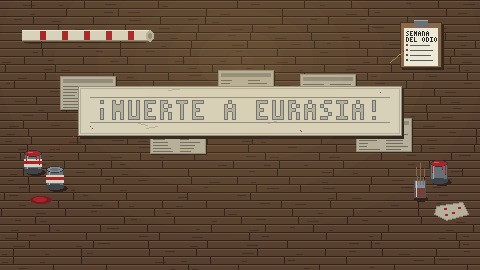
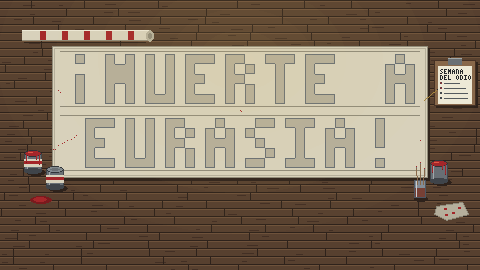
Pub sin bloqueos, pancarta para el dedo y guía del compás
- Un diálogo vacío (volver a entrar al pub) avisaba de su fin antes que de su
  inicio y el escenario se quedaba ocupado: el fin se avisa después.
- Toques más robustos: el joystick colgado se suelta con el siguiente toque,
  el gesto que cierra un diálogo solo se ignora un momento y hay tres dedos.
- Pancarta en dos líneas con letras grandes, brocha mayor y un margen de
  8 px que no cuenta como derrame.
- Compás guiado (J5): la lámina y los ministerios pendientes parpadean, el
  círculo se centra en el ministerio cercano, se pone verde a 2 km y los
  fallos dicen por qué.

diff --git a/src/scenes/minijuegos/ImpactosScene.ts b/src/scenes/minijuegos/ImpactosScene.ts
@@ -28,6 +28,8 @@ const PANEL = { x: 646, w: 290 };
 /** Los cuatro ministerios (rombos blancos de la lámina), en casillas: los mismos que art/ui/londres.py. */
 const MINISTERIOS = [[4.5, 5.6], [3.5, 4.4], [5.4, 4.0], [5.9, 5.3]];
 const RADIO_GUIA = { km: 2, tolerancia: 0.5, centro: 14 };
+/** En la secuencia guiada, empezar el círculo a menos de esto de un ministerio lo centra en él (con el dedo no se ve el rombo). */
+const IMAN = 40;
 
 /** "J-8" → columna 9, fila 7 (desde 0). */
 export function celda(c: string) {
@@ -52,14 +54,15 @@ export class ImpactosScene extends Minijuego {
   private cerrar!: Phaser.GameObjects.Container;
   private guiado = false;
   private paso: 'chinchetas' | 'lamina' | 'compas' | 'brooke' = 'chinchetas';
-  private ministerios: { x: number; y: number; hecho: boolean }[] = [];
+  private ministerios: { x: number; y: number; hecho: boolean; anillo?: Phaser.GameObjects.Arc }[] = [];
+  private botonLamina: Phaser.GameObjects.Rectangle | null = null;
 
   constructor() { super('Impactos'); }
 
   create() {
     this.reg = registroDe(this.params.registro ?? '')!;
     this.actual = 0; this.fallos = 0; this.laminaVista = false; this.compasUsado = false;
-    this.modo = 'chincheta'; this.circulos = []; this.trazo = null; this.lamina = null; this.botonCompas = null;
+    this.modo = 'chincheta'; this.circulos = []; this.trazo = null; this.lamina = null; this.botonCompas = null; this.botonLamina = null;
     this.guiado = this.params.guiado === 'si';
     this.paso = 'chinchetas';
     this.ministerios = MINISTERIOS.map(([c, f]) => ({ x: MAPA.x + c * ANCHO, y: MAPA.y + f * ALTO, hecho: false }));
@@ -111,7 +114,7 @@ export class ImpactosScene extends Minijuego {
     let bx = PANEL.x;
     if (inventario.includes('zonificacion')) {
       this.lamina = this.add.image(MAPA.x, MAPA.y, 'londres-zonas').setOrigin(0).setScale(MAPA.escala).setVisible(false).setDepth(2);
-      this.boton(bx + 70, height - 34, 'LÁMINA', () => this.alternarLamina());
+      this.botonLamina = this.boton(bx + 70, height - 34, 'LÁMINA', () => this.alternarLamina());
       bx += 148;
     }
     if (inventario.includes('compas')) {
@@ -209,10 +212,18 @@ export class ImpactosScene extends Minijuego {
     if (this.paso === 'chinchetas') {
       this.paso = 'lamina';
       if (this.lamina?.visible) { this.paso = 'compas'; return this.guia(); }
-      this.aviso.setText('¿Por qué nunca en el centro? Superpón la lámina de zonificación.');
+      this.aviso.setText('¿Por qué nunca en el centro? Toca LÁMINA para superponer la lámina de zonificación.');
+      if (this.botonLamina) this.tweens.add({ targets: this.botonLamina, alpha: 0.45, duration: 420, yoyo: true, repeat: -1 });
     } else if (this.paso === 'compas') {
+      if (this.botonLamina) { this.tweens.killTweensOf(this.botonLamina); this.botonLamina.setAlpha(1); }
       if (this.modo !== 'compas') this.alternarCompas();
-      this.aviso.setText('Traza un círculo de 2 km desde cada ministerio (los rombos blancos).');
+      this.aviso.setText('Arrastra desde cada rombo que parpadea hasta que el círculo marque 2 km (una casilla).').setWordWrapWidth(560);
+      // los ministerios que faltan, señalados: con el dedo encima, el rombo no se ve
+      for (const m of this.ministerios) {
+        if (m.hecho || m.anillo) continue;
+        m.anillo = this.add.circle(m.x, m.y, 9).setStrokeStyle(3, COLOR.ocre4).setDepth(5);
+        this.tweens.add({ targets: m.anillo, scale: 1.8, alpha: 0.2, duration: 700, yoyo: true, repeat: -1 });
+      }
     } else if (this.paso === 'brooke') {
       if (this.modo === 'compas') this.alternarCompas();
       this.aviso.setText('BROOKE, al pasar, muy bajo: «Quite eso del mapa antes de las seis. Voss hace la ronda a las seis.»')
@@ -221,17 +232,28 @@ export class ImpactosScene extends Minijuego {
     }
   }
 
-  /** ¿El círculo sale de un ministerio con un radio de unos 2 km? */
+  /** El ministerio pendiente en el que empieza un círculo (ya centrado por el imán). */
+  private ministerioEn(x: number, y: number) {
+    return this.ministerios.find((p) => !p.hecho && Phaser.Math.Distance.Between(p.x, p.y, x, y) <= RADIO_GUIA.centro);
+  }
+
+  private radioBueno(r: number) {
+    return Math.abs((r / ANCHO) * KM_POR_CELDA - RADIO_GUIA.km) <= RADIO_GUIA.tolerancia;
+  }
+
+  /** ¿El círculo sale de un ministerio con un radio de unos 2 km? Si no, se dice por qué. */
   private comprobarMinisterio(x: number, y: number, r: number) {
     if (this.paso !== 'compas') return;
     const km = (r / ANCHO) * KM_POR_CELDA;
-    const m = this.ministerios.find((p) => !p.hecho && Phaser.Math.Distance.Between(p.x, p.y, x, y) <= RADIO_GUIA.centro);
-    if (!m || Math.abs(km - RADIO_GUIA.km) > RADIO_GUIA.tolerancia) return;
+    const m = this.ministerioEn(x, y);
+    if (!m) { this.aviso.setText('El círculo tiene que empezar en un ministerio: uno de los rombos que parpadean.'); return; }
+    if (!this.radioBueno(r)) { this.aviso.setText(`Ese círculo mide ${km.toFixed(1)} km. Tiene que medir 2 km: una casilla del mapa.`); return; }
     m.hecho = true;
+    m.anillo?.destroy(); m.anillo = undefined;
     audio.play('acierto');
     this.add.text(m.x + 7, m.y - 18, '✓', { fontFamily: FUENTE.texto, fontSize: '16px', color: hex(COLOR.rojo3) }).setDepth(8);
     const faltan = this.ministerios.filter((p) => !p.hecho).length;
-    if (faltan) this.aviso.setText(`Ninguna chincheta dentro. Faltan ${faltan} ministerio${faltan > 1 ? 's' : ''}.`);
+    if (faltan) this.aviso.setText(`Ninguna chincheta dentro. ${faltan > 1 ? `Faltan ${faltan} ministerios` : 'Falta un ministerio'}.`);
     else this.time.delayedCall(900, () => { this.paso = 'brooke'; this.guia(); });
   }
 
@@ -242,16 +264,25 @@ export class ImpactosScene extends Minijuego {
   }
 
   private empezarCompas(p: Phaser.Input.Pointer) {
+    let { x, y } = p;
+    if (this.paso === 'compas') {
+      const cerca = this.ministerios.filter((m) => !m.hecho)
+        .map((m) => ({ m, d: Phaser.Math.Distance.Between(m.x, m.y, p.x, p.y) })).sort((a, b) => a.d - b.d)[0];
+      if (cerca && cerca.d <= IMAN) ({ x, y } = cerca.m);
+    }
     const g = this.add.graphics().setDepth(6);
-    const t = this.add.text(p.x, p.y, '', { fontFamily: FUENTE.maquina, fontSize: '18px', color: hex(COLOR.rojo3), backgroundColor: '#eeead9' }).setDepth(7);
-    this.trazo = { x: p.x, y: p.y, g, t };
+    const t = this.add.text(x, y, '', { fontFamily: FUENTE.maquina, fontSize: '18px', color: hex(COLOR.rojo3), backgroundColor: '#eeead9' }).setDepth(7);
+    this.trazo = { x, y, g, t };
   }
 
   private moverCompas(p: Phaser.Input.Pointer) {
     if (!this.trazo || !p.isDown) return;
     const r = Phaser.Math.Distance.Between(this.trazo.x, this.trazo.y, p.x, p.y);
-    this.trazo.g.clear().lineStyle(2, COLOR.rojo3, 0.9).strokeCircle(this.trazo.x, this.trazo.y, r)
-      .fillStyle(COLOR.rojo3).fillCircle(this.trazo.x, this.trazo.y, 2).lineBetween(this.trazo.x, this.trazo.y, p.x, p.y);
+    // en la secuencia guiada, el círculo se pone verde cuando sale de un ministerio y mide 2 km
+    const bien = this.paso === 'compas' && !!this.ministerioEn(this.trazo.x, this.trazo.y) && this.radioBueno(r);
+    const color = bien ? COLOR.tele4 : COLOR.rojo3;
+    this.trazo.g.clear().lineStyle(bien ? 3 : 2, color, 0.9).strokeCircle(this.trazo.x, this.trazo.y, r)
+      .fillStyle(color).fillCircle(this.trazo.x, this.trazo.y, 2).lineBetween(this.trazo.x, this.trazo.y, p.x, p.y);
     this.trazo.t.setPosition(p.x + 8, p.y - 18).setText(`${((r / ANCHO) * KM_POR_CELDA).toFixed(1)} km`);
   }
 

diff --git a/src/scenes/minijuegos/PancartaScene.ts b/src/scenes/minijuegos/PancartaScene.ts
@@ -3,22 +3,25 @@ import Phaser from 'phaser';
 import { Minijuego } from './Minijuego';
 import { COLOR, FUENTE, hex } from '../../ui/estilo';
 
-const LEMA = '¡MUERTE A EURASIA!';
+/** En dos líneas, con letras grandes: con el dedo, en un móvil, también se puede pintar sin salirse. */
+const LINEAS = ['¡MUERTE A', 'EURASIA!'];
 // fuente 3x5 (igual que la de los carteles del arte)
 const FUENTE_3X5: Record<string, string> = {
   M: '101111111101101', U: '101101101101111', E: '111100110100111', R: '110101110101101', T: '111010010010010',
   A: '010101111101101', S: '011100010001110', I: '111010010010111', '¡': '010000010010010', '!': '010010010000010', ' ': '000000000000000',
 };
 const CELDA = 4;            // resolución de la pintura (px)
-const PIXEL = 8;            // tamaño de cada "píxel" de la letra
-const BROCHA = 11;
+const PIXEL = 20;           // tamaño de cada "píxel" de la letra (las mismas casillas que art/minijuegos/pancarta.py)
+const ARRIBA = 108, ENTRE = 28;
+const BROCHA = 16;          // radio de la pincelada (la mancha es de 16x16 en el arte)
 
 export class PancartaScene extends Minijuego {
   private letra = new Set<number>();
+  /** Un margen de 8 px alrededor de las letras: rozar el contorno con el dedo no cuenta como derrame. */
+  private margen = new Set<number>();
   private pintadas = new Set<number>();
   private fuera = new Set<number>();
   private pintura!: Phaser.GameObjects.RenderTexture;   // a la resolución del arte (480x270), mostrada a 2x
-  private origen = { x: 0, y: 0 };
   private progreso!: Phaser.GameObjects.Text;
   private acabado = false;
   private ultimo: { x: number; y: number } | null = null;
@@ -28,29 +31,33 @@ export class PancartaScene extends Minijuego {
   preload() {
     this.load.image('pancarta-fondo', 'assets/minijuegos/pancarta-fondo.png');
     this.load.image('pancarta-brocha', 'assets/minijuegos/pancarta-brocha.png');
-    this.load.spritesheet('pancarta-mancha', 'assets/minijuegos/pancarta-mancha.png', { frameWidth: 11, frameHeight: 11 });
+    this.load.spritesheet('pancarta-mancha', 'assets/minijuegos/pancarta-mancha.png', { frameWidth: 16, frameHeight: 16 });
   }
 
   create() {
-    this.letra.clear(); this.pintadas.clear(); this.fuera.clear(); this.acabado = false;
+    this.letra.clear(); this.margen.clear(); this.pintadas.clear(); this.fuera.clear(); this.acabado = false;
     const { width, height } = this.scale;
     this.cameras.main.fadeIn(300, 11, 12, 15);
     // el suelo del Centro con la tela extendida y las letras ya trazadas a lápiz (en las mismas celdas que puntúan)
     this.add.image(0, 0, 'pancarta-fondo').setOrigin(0).setScale(2);
-    const anchoLema = LEMA.length * 4 * PIXEL;
-    this.origen = { x: Math.round((width - anchoLema) / 2), y: 200 };
-    this.add.text(width / 2, 60, 'Pinta las letras sin salirte', { fontFamily: FUENTE.texto, fontSize: '24px', color: hex(COLOR.papel4) }).setOrigin(0.5);
-    this.progreso = this.add.text(width / 2, 380, '', { fontFamily: FUENTE.maquina, fontSize: '24px', color: hex(COLOR.papel3) }).setOrigin(0.5);
+    this.add.text(width / 2, 26, 'Pinta las letras sin salirte', { fontFamily: FUENTE.texto, fontSize: '24px', color: hex(COLOR.papel4) }).setOrigin(0.5);
+    this.progreso = this.add.text(width / 2, 392, '', { fontFamily: FUENTE.maquina, fontSize: '24px', color: hex(COLOR.papel3) }).setOrigin(0.5);
 
     // celdas que cuentan como "dentro" (el contorno de las letras está dibujado en pancarta-fondo)
-    [...LEMA].forEach((ch, i) => {
-      const bits = FUENTE_3X5[ch] ?? FUENTE_3X5[' '];
-      [...bits].forEach((b, k) => {
-        if (b !== '1') return;
-        const x = this.origen.x + i * 4 * PIXEL + (k % 3) * PIXEL, y = this.origen.y + Math.floor(k / 3) * PIXEL;
-        for (let cy = y; cy < y + PIXEL; cy += CELDA) for (let cx = x; cx < x + PIXEL; cx += CELDA) this.letra.add(this.celda(cx, cy));
+    LINEAS.forEach((linea, n) => {
+      const ox = (width - (linea.length * 4 * PIXEL - PIXEL)) / 2, oy = ARRIBA + n * (5 * PIXEL + ENTRE);
+      [...linea].forEach((ch, i) => {
+        const bits = FUENTE_3X5[ch] ?? FUENTE_3X5[' '];
+        [...bits].forEach((b, k) => {
+          if (b !== '1') return;
+          const x = ox + i * 4 * PIXEL + (k % 3) * PIXEL, y = oy + Math.floor(k / 3) * PIXEL;
+          for (let cy = y; cy < y + PIXEL; cy += CELDA) for (let cx = x; cx < x + PIXEL; cx += CELDA) this.letra.add(this.celda(cx, cy));
+        });
       });
     });
+    for (const c of this.letra) {
+      for (let dy = -2; dy <= 2; dy++) for (let dx = -2; dx <= 2; dx++) if (!this.letra.has(c + dy * 10000 + dx)) this.margen.add(c + dy * 10000 + dx);
+    }
     this.pintura = this.add.renderTexture(0, 0, width / 2, height / 2).setOrigin(0).setScale(2);
     // la brocha sigue al puntero (la punta, abajo a la izquierda, es donde pinta)
     const brocha = this.add.image(-100, -100, 'pancarta-brocha').setOrigin(1 / 20, 19 / 20).setScale(2).setDepth(5);
@@ -76,17 +83,17 @@ export class PancartaScene extends Minijuego {
   }
 
   private celda(x: number, y: number) {
-    return Math.floor((y - this.origen.y + 40) / CELDA) * 10000 + Math.floor((x - this.origen.x + 20) / CELDA);
+    return Math.floor(y / CELDA) * 10000 + Math.floor(x / CELDA);
   }
 
   private pintar(x: number, y: number) {
-    // una pincelada de 11x11 px de arte (= radio BROCHA en el juego), alineada a la rejilla del arte
-    this.pintura.stamp('pancarta-mancha', Phaser.Math.Between(0, 2), Math.round(x / 2) - 5, Math.round(y / 2) - 5, { originX: 0, originY: 0 });
+    // una pincelada de 16x16 px de arte (= radio BROCHA en el juego), alineada a la rejilla del arte
+    this.pintura.stamp('pancarta-mancha', Phaser.Math.Between(0, 2), Math.round(x / 2) - 8, Math.round(y / 2) - 8, { originX: 0, originY: 0 });
     for (let dy = -BROCHA; dy <= BROCHA; dy += CELDA) {
       for (let dx = -BROCHA; dx <= BROCHA; dx += CELDA) {
         if (dx * dx + dy * dy > BROCHA * BROCHA) continue;
         const c = this.celda(x + dx, y + dy);
-        if (this.letra.has(c)) this.pintadas.add(c); else this.fuera.add(c);
+        if (this.letra.has(c)) this.pintadas.add(c); else if (!this.margen.has(c)) this.fuera.add(c);
       }
     }
     this.actualizar();

diff --git a/src/scenes/UIScene.ts b/src/scenes/UIScene.ts
@@ -302,8 +302,13 @@ export class UIScene extends Phaser.Scene {
     this.bloqueoHasta = this.time.now + 180;
     this.foco.setVisible(false);
     if (this.inventario.visible) this.alternarInventario();
+    this.iniciando = true;
     this.avanzar();
+    this.iniciando = false;
   }
+
+  /** Mientras se reparte el aviso de inicio: un knot sin nada que decir termina antes de que todos lo hayan oído. */
+  private iniciando = false;
 
   private avanzar() {
     const paso = narrativa.next();
@@ -318,7 +323,10 @@ export class UIScene extends Phaser.Scene {
     if (this.vinetaActual) { const v = this.vinetaActual; this.vinetaActual = null; this.tweens.add({ targets: v, alpha: 0, duration: 500, onComplete: () => v.destroy() }); }
     this.ocultarTodo();
     if (this.velo.alpha > 0) this.tweens.add({ targets: this.velo, alpha: 0, duration: 700 });
-    this.game.events.emit(EV.dialogoFin);
+    // un diálogo vacío (volver a entrar al pub: «pub_visto» → DONE) acaba dentro del propio aviso de inicio;
+    // el fin se avisa después, o el escenario lo recibiría antes que el inicio y se quedaría ocupado
+    if (this.iniciando) queueMicrotask(() => { if (!this.activo) this.game.events.emit(EV.dialogoFin); });
+    else this.game.events.emit(EV.dialogoFin);
   }
 
   private ocultarTodo() {

diff --git a/src/scenes/LocationScene.ts b/src/scenes/LocationScene.ts
@@ -170,8 +170,15 @@ export class LocationScene extends Phaser.Scene {
     this.input.mouse?.disableContextMenu();
 
     this.input.on('pointerdown', (p: Phaser.Input.Pointer) => {
+      // el gesto que cerró un diálogo se ignora, pero nunca más de un momento (en móvil, un «soltar» perdido lo dejaría bloqueado)
+      if (this.ignorarPulsacion && this.time.now - this.finDialogo > 600) this.ignorarPulsacion = false;
       if (this.ocupado || this.ignorarPulsacion || this.registry.get('uiCapturo') === p.downTime) return;
-      if (tactil.activo) return;   // un segundo dedo mientras el primero lleva el joystick
+      if (tactil.activo) {
+        // un segundo dedo mientras el primero lleva el joystick; si ese dedo ya no está, el joystick se había quedado colgado
+        const dedo = this.input.manager.pointers.find((x) => x.id === this.pulsacion?.id);
+        if (dedo?.isDown && dedo !== p) return;
+        this.soltarJoystick();
+      }
       const punto = { x: p.worldX, y: p.worldY };
       const h = this.hotspotEn(punto);
       if (p.rightButtonDown()) {

diff --git a/src/main.ts b/src/main.ts
@@ -53,7 +53,8 @@ const juego = new Phaser.Game({
   roundPixels: true,
   // pantalla completa sobre #juego (canvas + campos de texto HTML), no solo sobre el canvas: si no, en Android no sale el teclado
   scale: { mode: Phaser.Scale.FIT, autoCenter: Phaser.Scale.CENTER_BOTH, fullscreenTarget: 'juego' },
-  input: { activePointers: 2 },
+  // tres dedos: si el sistema se traga el «soltar» de uno, los demás siguen funcionando
+  input: { activePointers: 3 },
   dom: { createContainer: true },
   scene: [BootScene, PreloadScene, MenuScene, LocationScene, UIScene, CascotesScene, FichaScene, FacecrimeScene, ParteScene, FrenteScene, PancartaScene, ImpactosScene, SammyScene, DiarioScene, ComparadorScene, EsconderScene,
     DocumentoScene, LibroScene, CopiarScene, PalancaScene, LlavesScene, CombinacionScene, RectificacionScene, ListaScene,

diff --git a/art/minijuegos/pancarta.py b/art/minijuegos/pancarta.py
@@ -1,12 +1,12 @@
 """J2.05 — La pancarta del Centro de la Comunidad: «¡MUERTE A EURASIA!».
 
 El suelo de tablones del Centro, con la tela extendida sobre periódicos viejos y las letras trazadas a
-lápiz (cada «píxel» de la letra es un cuadro de 4x4 del arte = 8x8 del juego, en las mismas posiciones
-que usa la escena para puntuar). Alrededor: botes de pintura roja, un tarro con pinceles, un trapo
+lápiz en dos líneas (cada «píxel» de la letra es un cuadro de 10x10 del arte = 20x20 del juego, en las
+mismas posiciones que usa la escena para puntuar: letras grandes para pintarlas con el dedo). Alrededor: botes de pintura roja, un tarro con pinceles, un trapo
 manchado, la otra pancarta enrollada y la lista de Hilda en una tablilla.
 
   pancarta-fondo   480x270
-  pancarta-mancha  hoja de 3 fotogramas de 11x11 (pinceladas que se estampan al pintar)
+  pancarta-mancha  hoja de 3 fotogramas de 16x16 (pinceladas que se estampan al pintar)
   pancarta-brocha  20x20 (la brocha que sigue al puntero; la punta está abajo a la izquierda)
 """
 import random
@@ -15,23 +15,33 @@ from _base import CLAVE, Canvas, K, a_rgba, guardar, hoja, sprite
 import props as P
 
 W, H = 480, 270
-LEMA = "¡MUERTE A EURASIA!"
+LINEAS = ("¡MUERTE A", "EURASIA!")
 FUENTE = {  # la misma que PancartaScene.ts
     "M": "101111111101101", "U": "101101101101111", "E": "111100110100111", "R": "110101110101101",
     "T": "111010010010010", "A": "010101111101101", "S": "011100010001110", "I": "111010010010111",
     "¡": "010000010010010", "!": "010010010000010", " ": "000000000000000",
 }
-ORIGEN = (96, 100)                    # origen del juego (192, 200) a la mitad
-PX = 4                                # PIXEL = 8 en el juego
-TELA = (78, 86, 402, 136)
+PX = 10                               # PIXEL = 20 en el juego
+ARRIBA, ENTRE = 54, 14                # primera línea y separación (y del juego 108; mitad)
+TELA = (52, 46, 428, 178)
+
+
+def origenes():
+    """Esquina de cada línea, centrada (la misma cuenta que PancartaScene.ts, a la mitad)."""
+    out = []
+    for n, linea in enumerate(LINEAS):
+        ancho = len(linea) * 4 * PX - PX
+        out.append(((W - ancho) // 2, ARRIBA + n * (5 * PX + ENTRE)))
+    return out
 
 
 def celdas():
     out = set()
-    for i, ch in enumerate(LEMA):
-        for k, b in enumerate(FUENTE.get(ch, FUENTE[" "])):
-            if b == "1":
-                out.add((ORIGEN[0] + i * 4 * PX + (k % 3) * PX, ORIGEN[1] + (k // 3) * PX))
+    for linea, (ox, oy) in zip(LINEAS, origenes()):
+        for i, ch in enumerate(linea):
+            for k, b in enumerate(FUENTE.get(ch, FUENTE[" "])):
+                if b == "1":
+                    out.add((ox + i * 4 * PX + (k % 3) * PX, oy + (k // 3) * PX))
     return out
 
 
@@ -78,7 +88,7 @@ def fondo():
     cv.frame(x0 + 2, y0 + 2, x1 - 2, y1 - 2, K("papel", 2)); cv.frame(x0, y0, x1, y1, K("papel", 1))
     for _ in range(14):
         ax, ay = rnd.randint(x0 + 6, x1 - 20), rnd.randint(y0 + 4, y1 - 8)
-        if ORIGEN[1] - 2 <= ay <= ORIGEN[1] + 22:
+        if any(oy - 2 <= ay <= oy + 5 * PX + 2 for _, oy in origenes()):
             continue
         cv.d.line([(ax, ay), (ax + rnd.randint(6, 16), ay + rnd.choice([-2, 2, 3]))], fill=K("papel", 2))
     # las letras, trazadas a lápiz: relleno pálido y contorno solo por fuera
@@ -95,10 +105,11 @@ def fondo():
         if (cx + PX, cy) not in cel:
             cv.vline(cx + PX - 1, cy, cy + PX, K("gris", 6))
     # renglones de guía a lápiz
-    cv.hline(ORIGEN[0] - 6, x1 - 12, ORIGEN[1] - 3, K("papel", 1))
-    cv.hline(ORIGEN[0] - 6, x1 - 12, ORIGEN[1] + 22, K("papel", 1))
+    for ox, oy in origenes():
+        cv.hline(x0 + 8, x1 - 8, oy - 3, K("papel", 1))
+        cv.hline(x0 + 8, x1 - 8, oy + 5 * PX + 2, K("papel", 1))
     # gotas de un intento anterior, fuera de las letras
-    for (gx, gy) in ((90, 126), (92, 128), (380, 92), (300, 130), (301, 131)):
+    for (gx, gy) in ((58, 90), (60, 92), (420, 140), (240, 110), (241, 111)):
         cv.px(gx, gy, K("rojo", 3))
     # botes, tarro de pinceles, trapo
     _bote(cv, 24, 150, abierto=True)
@@ -123,7 +134,7 @@ def fondo():
     cv.hline(24, 146, 42, K("madera", 1))
     for k in range(5):
         cv.rect(40 + k * 22, 31, 46 + k * 22, 40, K("rojo", 3))                    # letras que asoman
-    hx, hy = 400, 22
+    hx, hy = 434, 60
     cv.rect(hx + 2, hy + 2, hx + 44, hy + 48, K("madera", 1))
     cv.rect(hx, hy, hx + 42, hy + 46, K("madera", 5)); cv.frame(hx, hy, hx + 42, hy + 46, K("madera", 2))
     cv.rect(hx + 4, hy + 6, hx + 38, hy + 44, K("papel", 4))
@@ -149,16 +160,17 @@ def fondo():
 
 def _mancha(semilla):
     rnd = random.Random(semilla)
-    cv = sprite(11, 11)
-    cv.ellipse(0, 0, 11, 11, K("rojo", 3))
-    for _ in range(4):                                                          # borde irregular
-        cv.px(rnd.choice([0, 10]), rnd.randint(3, 7), K("rojo", 3))
-        cv.px(rnd.randint(3, 7), rnd.choice([0, 10]), K("rojo", 3))
-    cv.d.arc([1, 1, 10, 10], 20, 110, fill=K("rojo", 2))
-    for _ in range(2):                                                          # cerdas
-        y = rnd.randint(3, 7)
-        cv.hline(rnd.randint(2, 4), rnd.randint(6, 9), y, K("rojo", 2))
-    cv.px(3 + rnd.randint(0, 1), 3, K("rojo", 4)); cv.px(4, 2 + rnd.randint(0, 1), K("rojo", 4))
+    T = 16
+    cv = sprite(T, T)
+    cv.ellipse(0, 0, T, T, K("rojo", 3))
+    for _ in range(6):                                                          # borde irregular
+        cv.px(rnd.choice([0, T - 1]), rnd.randint(4, T - 5), K("rojo", 3))
+        cv.px(rnd.randint(4, T - 5), rnd.choice([0, T - 1]), K("rojo", 3))
+    cv.d.arc([1, 1, T - 1, T - 1], 20, 110, fill=K("rojo", 2))
+    for _ in range(3):                                                          # cerdas
+        y = rnd.randint(4, T - 5)
+        cv.hline(rnd.randint(2, 5), rnd.randint(T - 7, T - 3), y, K("rojo", 2))
+    cv.px(4 + rnd.randint(0, 1), 4, K("rojo", 4)); cv.px(5, 3 + rnd.randint(0, 1), K("rojo", 4))
     return a_rgba(cv)
 
 
